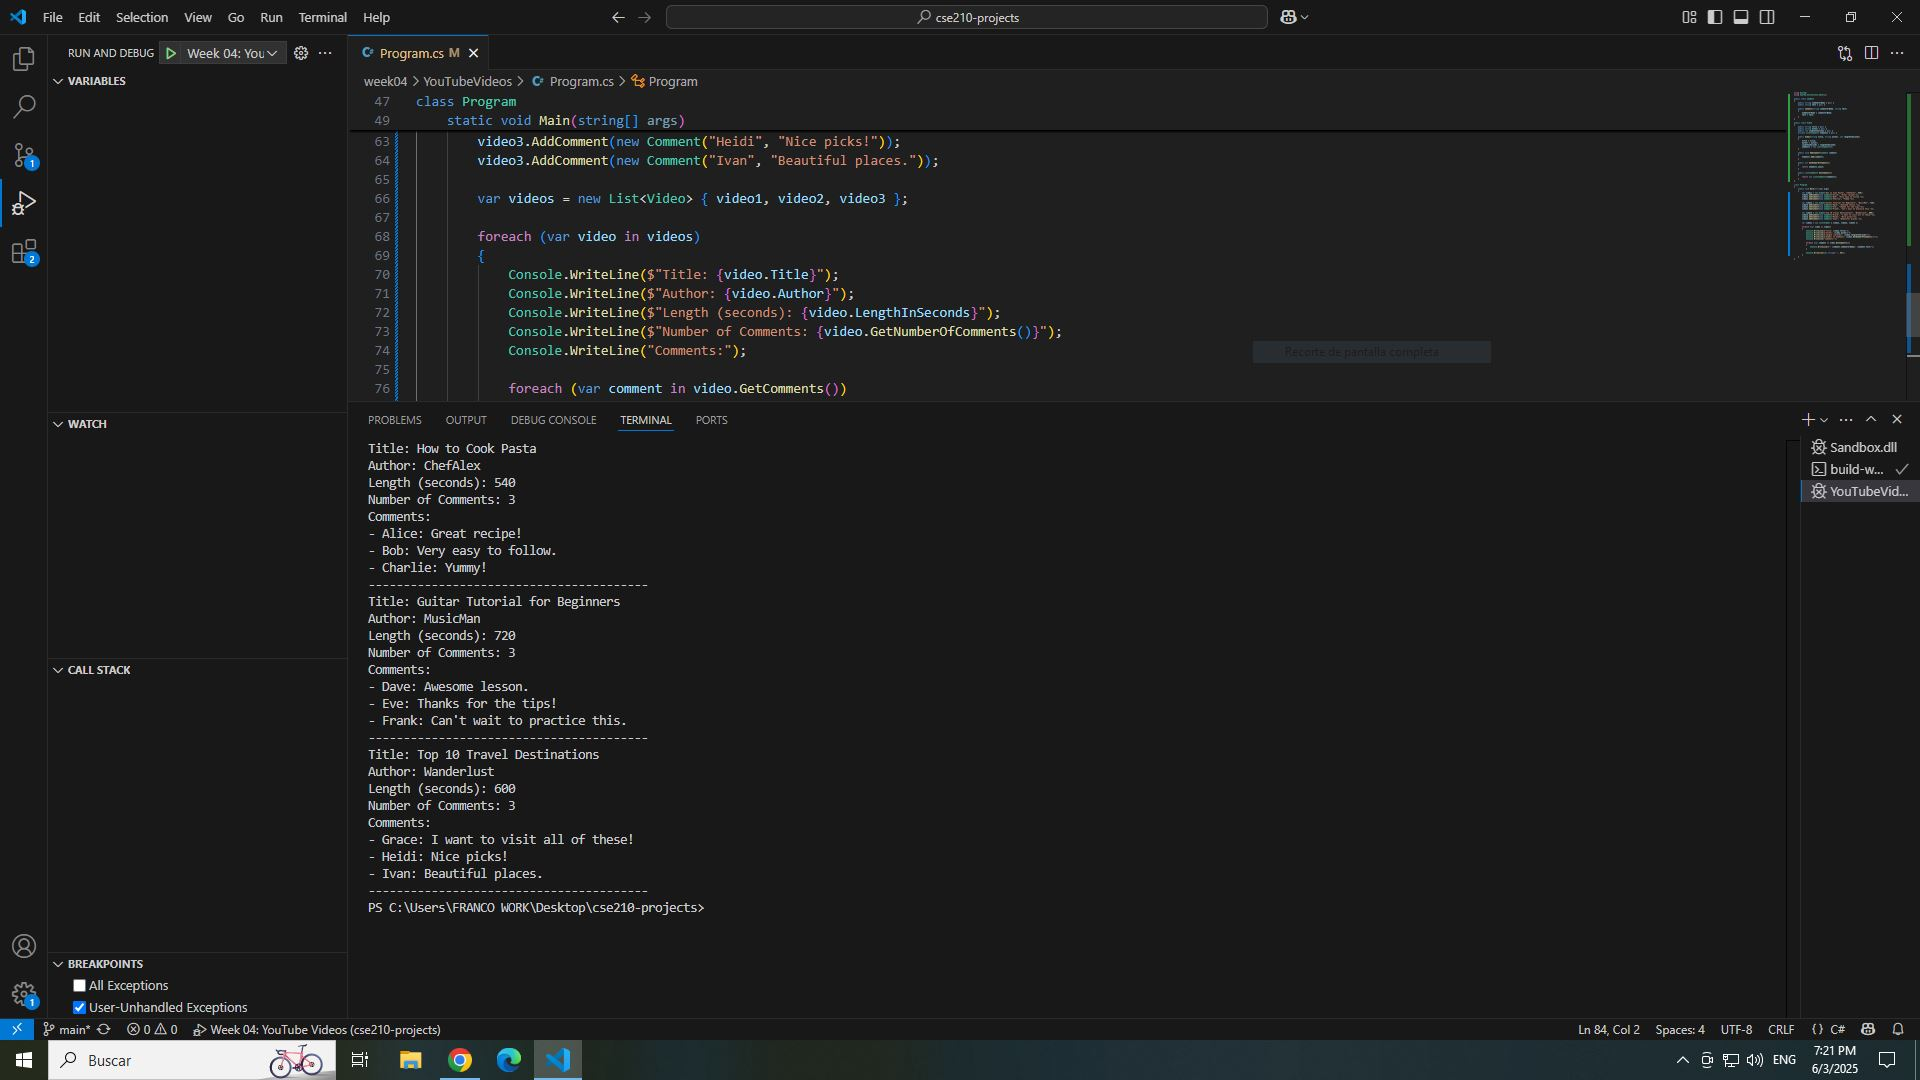
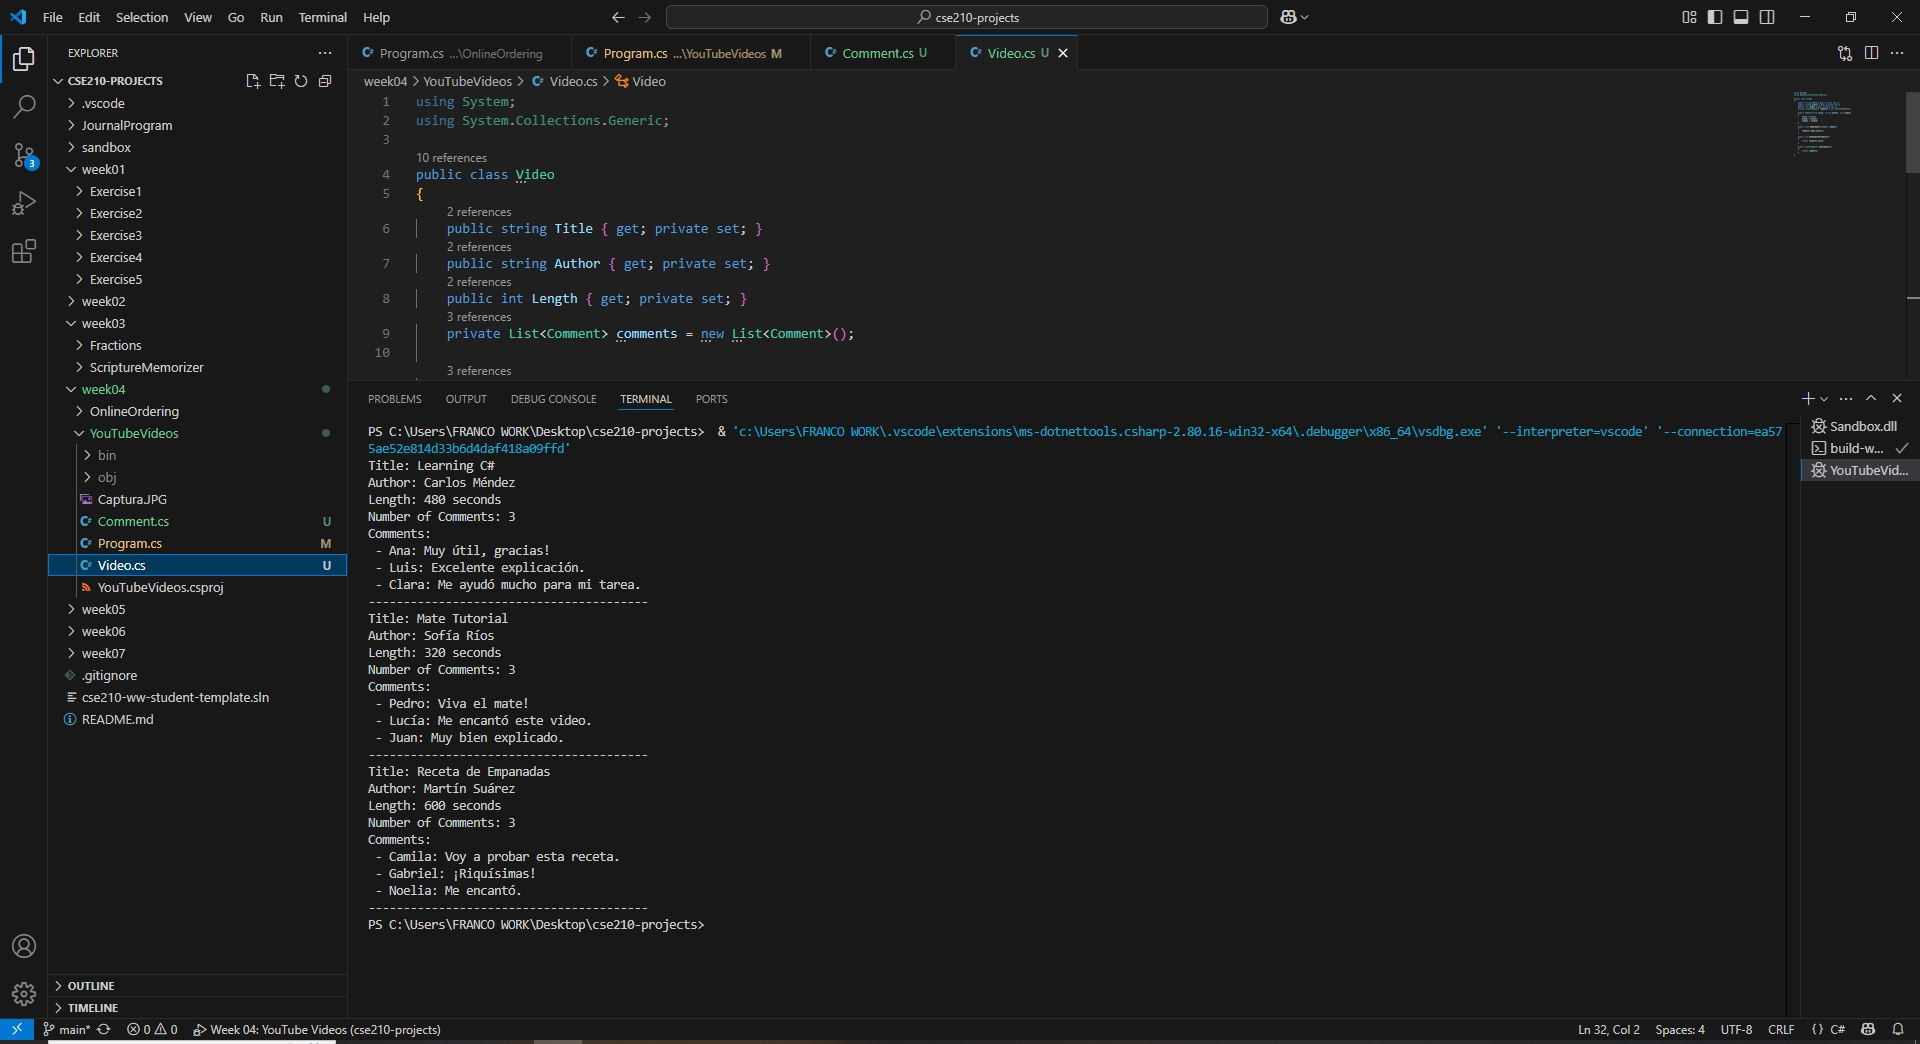
updated yt videos activity

diff --git a/week04/YouTubeVideos/Program.cs b/week04/YouTubeVideos/Program.cs
@@ -1,83 +1,42 @@
 using System;
 using System.Collections.Generic;
 
-public class Comment
-{
-    public string CommenterName { get; }
-    public string Text { get; }
-
-    public Comment(string commenterName, string text)
-    {
-        CommenterName = commenterName;
-        Text = text;
-    }
-}
-
-public class Video
-{
-    public string Title { get; }
-    public string Author { get; }
-    public int LengthInSeconds { get; }
-    private List<Comment> Comments { get; }
-
-    public Video(string title, string author, int lengthInSeconds)
-    {
-        Title = title;
-        Author = author;
-        LengthInSeconds = lengthInSeconds;
-        Comments = new List<Comment>();
-    }
-
-    public void AddComment(Comment comment)
-    {
-        Comments.Add(comment);
-    }
-
-    public int GetNumberOfComments()
-    {
-        return Comments.Count;
-    }
-
-    public List<Comment> GetComments()
-    {
-        return new List<Comment>(Comments);
-    }
-}
-
 class Program
 {
     static void Main(string[] args)
     {
-        var video1 = new Video("How to Cook Pasta", "ChefAlex", 540);
-        video1.AddComment(new Comment("Alice", "Great recipe!"));
-        video1.AddComment(new Comment("Bob", "Very easy to follow."));
-        video1.AddComment(new Comment("Charlie", "Yummy!"));
+        List<Video> videos = new List<Video>();
 
-        var video2 = new Video("Guitar Tutorial for Beginners", "MusicMan", 720);
-        video2.AddComment(new Comment("Dave", "Awesome lesson."));
-        video2.AddComment(new Comment("Eve", "Thanks for the tips!"));
-        video2.AddComment(new Comment("Frank", "Can't wait to practice this."));
+        Video video1 = new Video("Learning C#", "Carlos Méndez", 480);
+        video1.AddComment(new Comment("Ana", "Muy útil, gracias!"));
+        video1.AddComment(new Comment("Luis", "Excelente explicación."));
+        video1.AddComment(new Comment("Clara", "Me ayudó mucho para mi tarea."));
 
-        var video3 = new Video("Top 10 Travel Destinations", "Wanderlust", 600);
-        video3.AddComment(new Comment("Grace", "I want to visit all of these!"));
-        video3.AddComment(new Comment("Heidi", "Nice picks!"));
-        video3.AddComment(new Comment("Ivan", "Beautiful places."));
+        Video video2 = new Video("Mate Tutorial", "Sofía Ríos", 320);
+        video2.AddComment(new Comment("Pedro", "Viva el mate!"));
+        video2.AddComment(new Comment("Lucía", "Me encantó este video."));
+        video2.AddComment(new Comment("Juan", "Muy bien explicado."));
 
-        var videos = new List<Video> { video1, video2, video3 };
+        Video video3 = new Video("Receta de Empanadas", "Martín Suárez", 600);
+        video3.AddComment(new Comment("Camila", "Voy a probar esta receta."));
+        video3.AddComment(new Comment("Gabriel", "¡Riquísimas!"));
+        video3.AddComment(new Comment("Noelia", "Me encantó."));
 
-        foreach (var video in videos)
+        videos.Add(video1);
+        videos.Add(video2);
+        videos.Add(video3);
+
+        foreach (Video video in videos)
         {
             Console.WriteLine($"Title: {video.Title}");
             Console.WriteLine($"Author: {video.Author}");
-            Console.WriteLine($"Length (seconds): {video.LengthInSeconds}");
+            Console.WriteLine($"Length: {video.Length} seconds");
             Console.WriteLine($"Number of Comments: {video.GetNumberOfComments()}");
             Console.WriteLine("Comments:");
-
-            foreach (var comment in video.GetComments())
+            foreach (Comment comment in video.GetComments())
             {
-                Console.WriteLine($"- {comment.CommenterName}: {comment.Text}");
+                Console.WriteLine($" - {comment.CommenterName}: {comment.Text}");
             }
-
             Console.WriteLine(new string('-', 40));
         }
     }

diff --git a/week04/YouTubeVideos/Video.cs b/week04/YouTubeVideos/Video.cs
@@ -1,0 +1,32 @@
+using System;
+using System.Collections.Generic;
+
+public class Video
+{
+    public string Title { get; private set; }
+    public string Author { get; private set; }
+    public int Length { get; private set; }
+    private List<Comment> comments = new List<Comment>();
+
+    public Video(string title, string author, int length)
+    {
+        Title = title;
+        Author = author;
+        Length = length;
+    }
+
+    public void AddComment(Comment comment)
+    {
+        comments.Add(comment);
+    }
+
+    public int GetNumberOfComments()
+    {
+        return comments.Count;
+    }
+
+    public List<Comment> GetComments()
+    {
+        return comments;
+    }
+}

diff --git a/week04/YouTubeVideos/Comment.cs b/week04/YouTubeVideos/Comment.cs
@@ -1,0 +1,11 @@
+public class Comment
+{
+    public string CommenterName { get; private set; }
+    public string Text { get; private set; }
+
+    public Comment(string commenterName, string text)
+    {
+        CommenterName = commenterName;
+        Text = text;
+    }
+}
